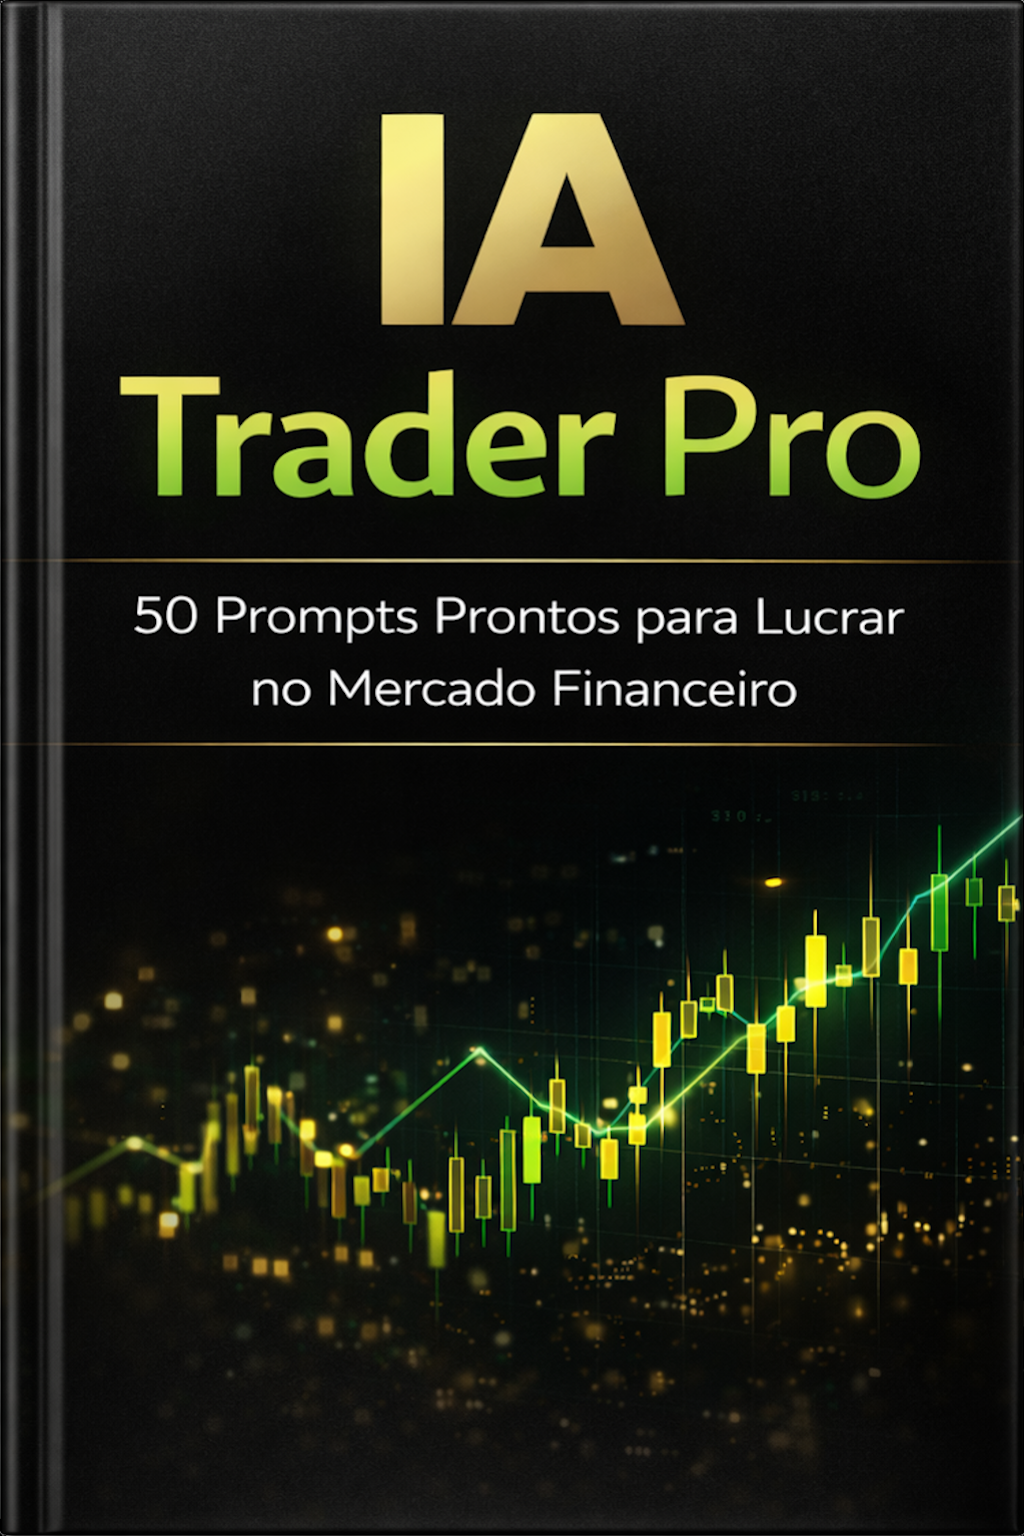
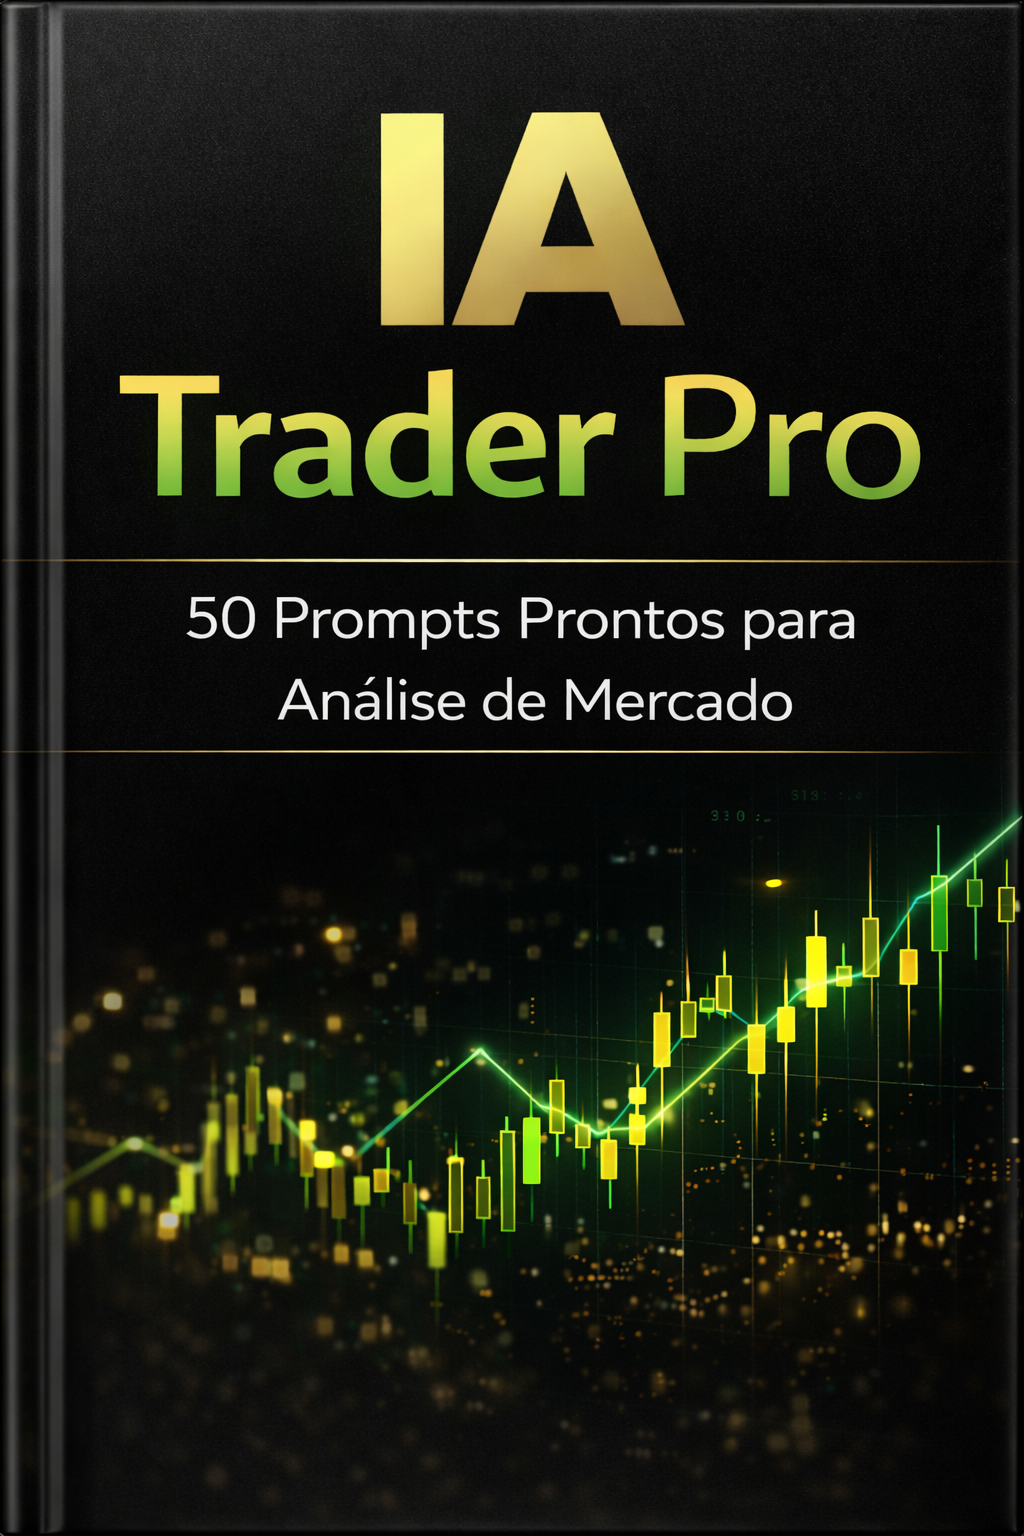
fix: copy

diff --git a/templates/IATraderPro.html b/templates/IATraderPro.html
@@ -376,7 +376,7 @@
               <div class="tick" aria-hidden="true">
                 <svg viewBox="0 0 24 24"><path d="M9.0 16.2 4.8 12l-1.4 1.4L9 19 21 7l-1.4-1.4z"/></svg>
               </div>
-              <span><strong>Prático:</strong> prompts para entrada, stop, alvo, risco/retorno e timing.</span>
+              <span><strong>Prático:</strong> prompts prontos para todo tipo de análise.</span>
             </li>
             <li>
               <div class="tick" aria-hidden="true">
